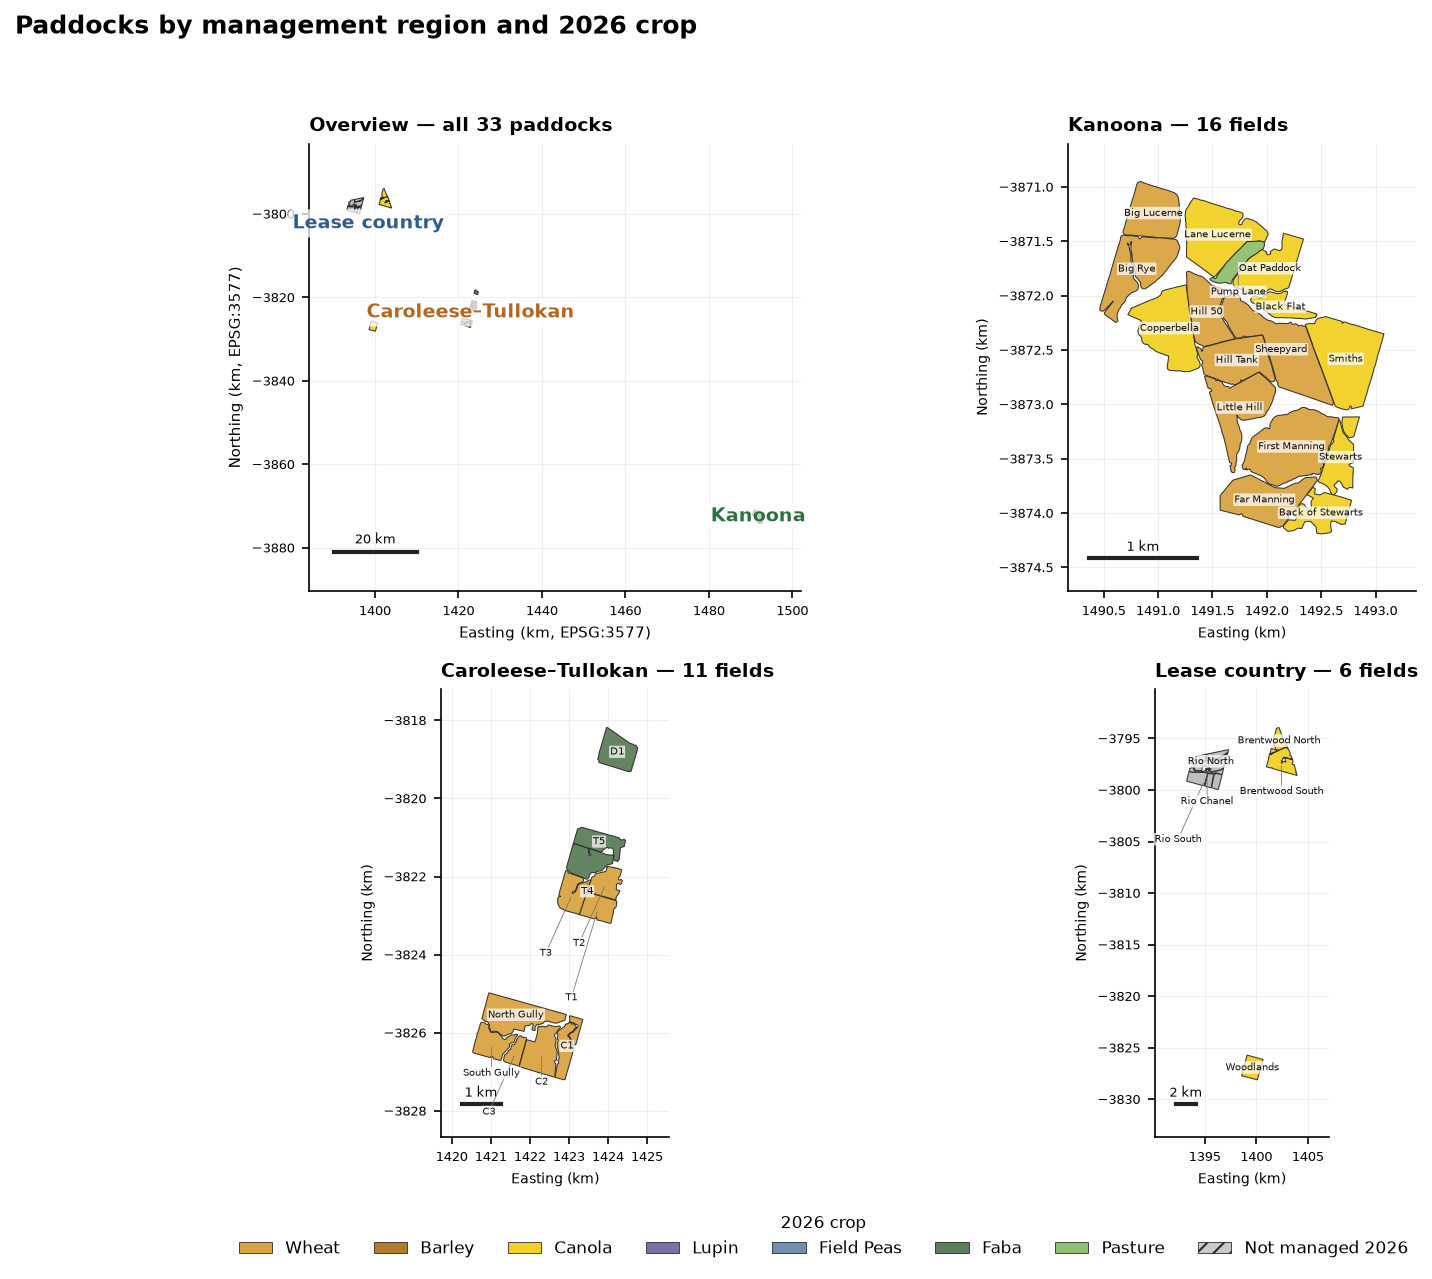
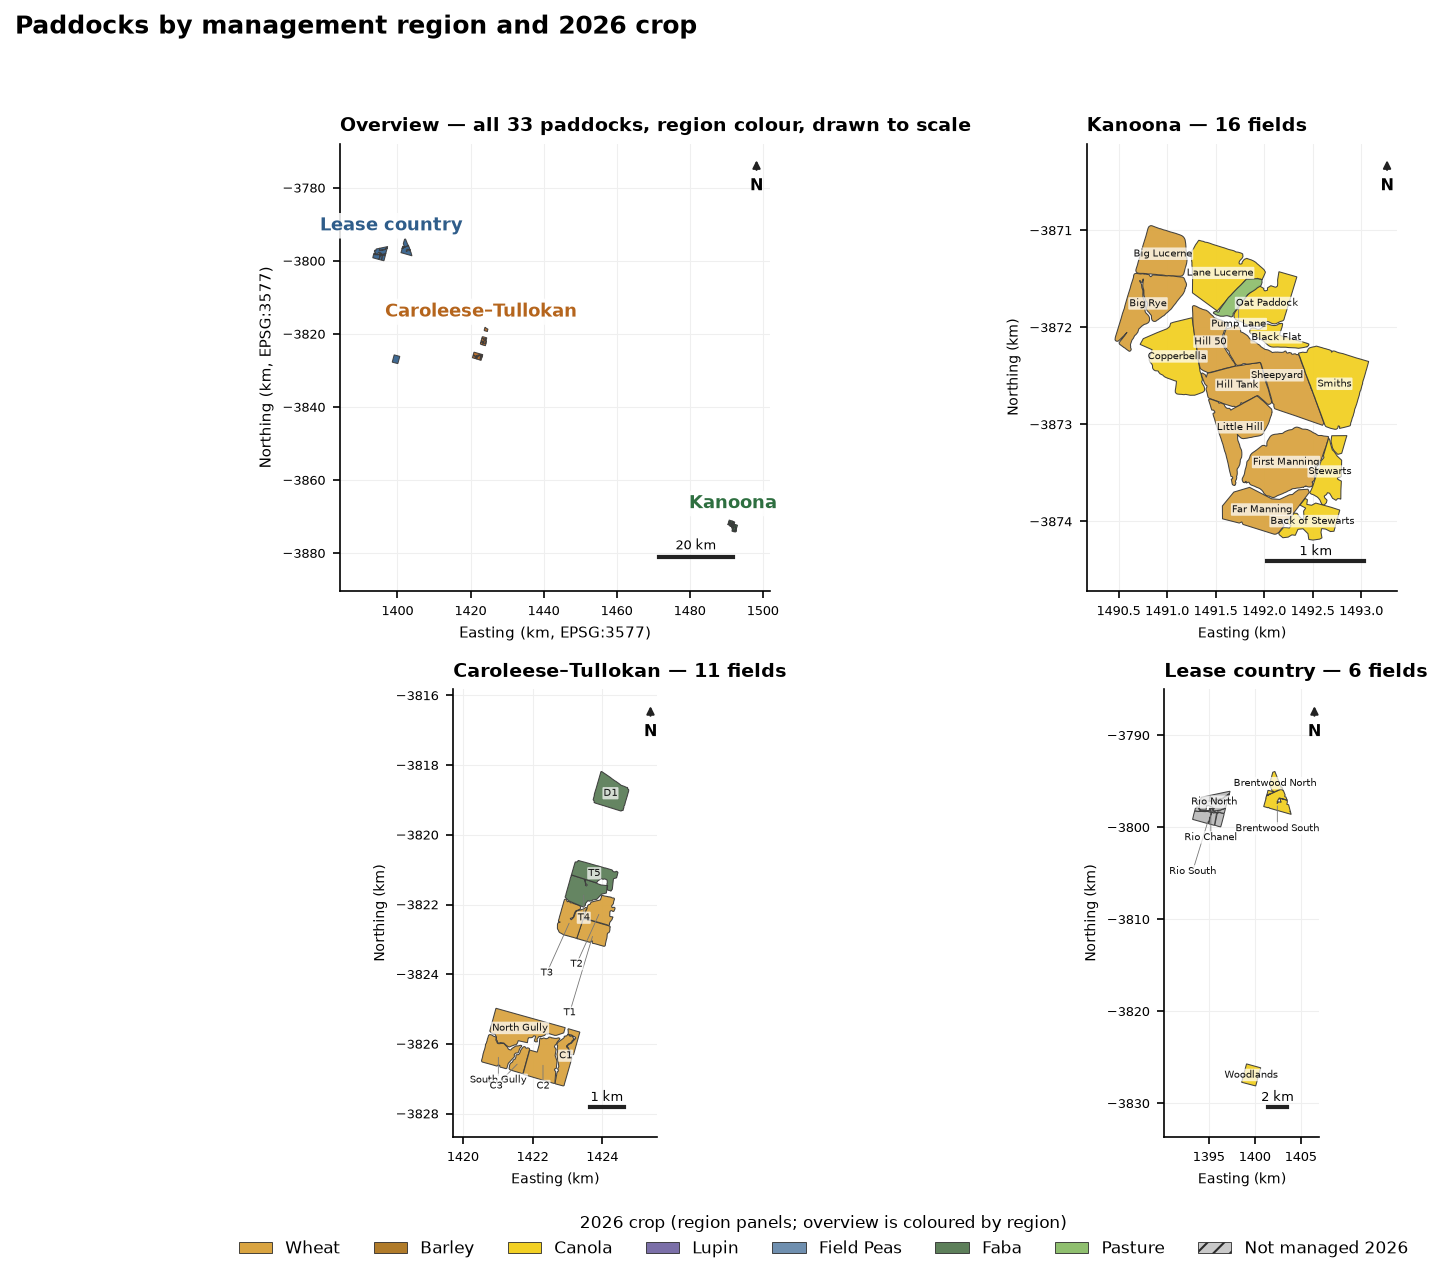
Assignment 2: pass figure vision review for the four region figures
Vision review against CONTRIBUTING.md five-point gate (examples/figures):

- fig01 field area: n labels re-anchored above each group's maximum instead of floating at the axes edge; PASS

- fig02 seasonal rainfall: primary window now 1 Apr - 30 Nov, 2026 partial season annotated with 233/244 d and labelled a lower bound; PASS

- fig03 crop mix: panel n counts reconcile to 30/30/32/33/30 observed field-years; categorical palette with discrete legend; PASS

- fig04 paddock map: overview recoloured by region because 2026 crop colour was sub-pixel at a 107 km extent; north arrows moved into reserved headroom to clear the Rio North label; field labels clamped inside the axes; scale bar moved to the clear corner; PASS, residual note: the Caroleese micro-paddock labels are dense and need the full-width report rendering

diff --git a/my-farm-advisor/eda/eda-field-comparison/src/make_figures.py b/my-farm-advisor/eda/eda-field-comparison/src/make_figures.py
@@ -121,15 +121,16 @@ def figure_field_area(panel: pd.DataFrame) -> Path:
             linewidth=0.5,
             zorder=3,
         )
-        ax.text(
-            0.985,
-            i + 0.30,
+        ax.annotate(
             f"n = {len(vals)}",
-            transform=ax.get_yaxis_transform(),
-            ha="right",
-            va="center",
+            xy=(float(np.max(vals)), i),
+            xytext=(0, 9),
+            textcoords="offset points",
+            ha="center",
+            va="bottom",
             fontsize=8,
             color=colour,
+            fontweight="bold",
         )
 
     ax.set_yticks(range(len(REGIONS)))
@@ -242,12 +243,26 @@ def _nice_bar(span_km: float) -> float:
     return 1.0
 
 
-def _draw_panel(ax, items, title, label_font=5.2, show_labels=True):
+def _draw_panel(
+    ax,
+    items,
+    title,
+    label_font=5.2,
+    show_labels=True,
+    colour_by="crop",
+    north_arrow=True,
+):
     xs0, ys0, xs1, ys1 = [], [], [], []
-    for km_geom, crop, name in items:
-        key = crop if crop else "Not managed"
-        colour = CROP_COLOUR.get(key, "#bbbbbb")
-        hatch = "///" if key == "Not managed" else None
+    for km_geom, crop, name, region in items:
+        if colour_by == "region":
+            colour = REGION_COLOUR.get(region, "#bbbbbb")
+            hatch = None
+            alpha = 0.92
+        else:
+            key = crop if crop else "Not managed"
+            colour = CROP_COLOUR.get(key, "#bbbbbb")
+            hatch = "///" if key == "Not managed" else None
+            alpha = 0.95 if hatch is None else 0.55
         for poly in _polygons(km_geom):
             xs, ys = poly.exterior.xy
             ax.add_patch(
@@ -255,10 +270,10 @@ def _draw_panel(ax, items, title, label_font=5.2, show_labels=True):
                     list(zip(xs, ys)),
                     closed=True,
                     facecolor=colour,
-                    edgecolor="#2b2b2b",
+                    edgecolor="#3a3a3a",
                     linewidth=0.5,
                     hatch=hatch,
-                    alpha=0.95 if hatch is None else 0.55,
+                    alpha=alpha,
                 )
             )
         b = km_geom.bounds
@@ -266,8 +281,11 @@ def _draw_panel(ax, items, title, label_font=5.2, show_labels=True):
 
     minx, miny, maxx, maxy = min(xs0), min(ys0), max(xs1), max(ys1)
     pad = max(maxx - minx, maxy - miny) * 0.09
+    # Reserve an empty band at the top so the north arrow can never land on a
+    # paddock or a label, whatever the panel extent happens to be.
+    top = maxy + pad * (2.9 if north_arrow else 1.2)
     ax.set_xlim(minx - pad, maxx + pad)
-    ax.set_ylim(miny - pad * 1.8, maxy + pad * 1.2)
+    ax.set_ylim(miny - pad * 1.8, top)
 
     if show_labels:
         span_hint = max(maxx - minx, maxy - miny)
@@ -277,7 +295,7 @@ def _draw_panel(ax, items, title, label_font=5.2, show_labels=True):
         ordered = sorted(
             items, key=lambda t: (-t[0].centroid.y, t[0].centroid.x)
         )
-        for km_geom, crop, name in ordered:
+        for km_geom, crop, name, region in ordered:
             if not name:
                 continue
             c = km_geom.centroid
@@ -291,6 +309,10 @@ def _draw_panel(ax, items, title, label_font=5.2, show_labels=True):
                 if attempt % 2 == 1:
                     lx -= sep * 0.9
             placed.append((lx, ly))
+            # Keep every label inside the plotted footprint; a label pushed
+            # outside the axes reads as a stray mark rather than data.
+            lx = min(max(lx, minx), maxx)
+            ly = min(max(ly, miny), maxy)
             ax.annotate(
                 name,
                 (lx, ly),
@@ -312,10 +334,26 @@ def _draw_panel(ax, items, title, label_font=5.2, show_labels=True):
 
     span = maxx - minx
     bar = _nice_bar(span)
-    x_bar = minx - pad * 0.35
+    # Bottom-right: the corner that stays clear in every panel of this figure.
+    x_bar = maxx - bar - pad * 0.15
     y_bar = miny - pad * 0.75
     ax.plot([x_bar, x_bar + bar], [y_bar, y_bar], color="#222222", linewidth=2.0)
     ax.text(x_bar + bar / 2, y_bar + pad * 0.22, f"{bar:.0f} km", ha="center", fontsize=6.2)
+
+    if north_arrow:
+        ax.annotate(
+            "N",
+            xy=(0.968, 0.972),
+            xytext=(0.968, 0.905),
+            xycoords="axes fraction",
+            textcoords="axes fraction",
+            ha="center",
+            va="center",
+            fontsize=7.5,
+            fontweight="bold",
+            zorder=10,
+            arrowprops=dict(arrowstyle="-|>", color="#222222", lw=1.0),
+        )
 
     ax.set_title(title, loc="left", fontweight="bold", fontsize=9)
     ax.set_aspect("equal")
@@ -351,18 +389,19 @@ def figure_map(panel: pd.DataFrame) -> Path:
     ax_over = fig.add_subplot(gs[0, 0])
     _draw_panel(
         ax_over,
-        [(g, c, "") for g, c, _, _ in items],
-        "Overview — all 33 paddocks",
+        items,
+        "Overview — all 33 paddocks, region colour, drawn to scale",
         show_labels=False,
+        colour_by="region",
     )
     for region in REGIONS:
         pts = [g.centroid for g, _, _, r in items if r == region]
         cx = float(np.mean([p.x for p in pts]))
-        cy = float(np.mean([p.y for p in pts]))
+        top_y = max(p.y for p in pts)
         ax_over.text(
-            cx, cy, region, fontsize=9, fontweight="bold",
-            color=REGION_COLOUR[region], ha="center", va="center", zorder=8,
-            bbox=dict(boxstyle="round,pad=0.25", fc="white", ec="none", alpha=0.75),
+            cx, top_y + 2.4, region, fontsize=8.5, fontweight="bold",
+            color=REGION_COLOUR[region], ha="center", va="bottom", zorder=9,
+            bbox=dict(boxstyle="round,pad=0.22", fc="white", ec="none", alpha=0.85),
         )
     ax_over.set_xlabel("Easting (km, EPSG:3577)", fontsize=7)
     ax_over.set_ylabel("Northing (km, EPSG:3577)", fontsize=7)
@@ -373,7 +412,7 @@ def figure_map(panel: pd.DataFrame) -> Path:
         "Lease country": fig.add_subplot(gs[1, 1]),
     }
     for region, ax in region_axes.items():
-        subset = [(g, c, n) for g, c, n, r in items if r == region]
+        subset = [it for it in items if it[3] == region]
         _draw_panel(
             ax,
             subset,
@@ -394,7 +433,8 @@ def figure_map(panel: pd.DataFrame) -> Path:
     )
     fig.legend(
         handles=handles, loc="lower center", ncol=8, frameon=False,
-        fontsize=8, bbox_to_anchor=(0.5, 0.005), title="2026 crop",
+        fontsize=8, bbox_to_anchor=(0.5, 0.005),
+        title="2026 crop (region panels; overview is coloured by region)",
         title_fontsize=8,
     )
     fig.suptitle(
